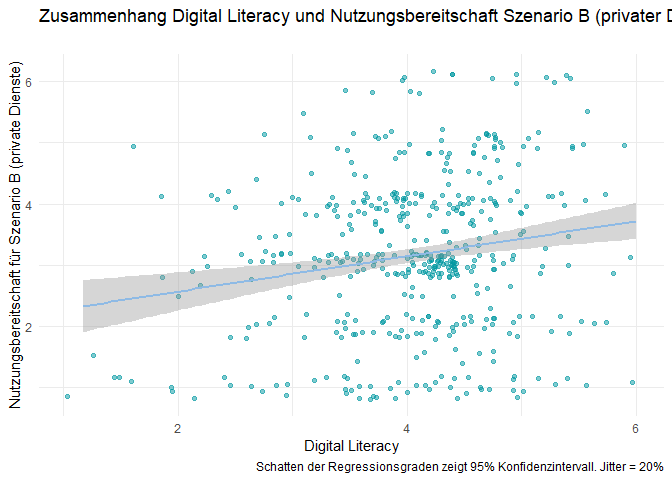
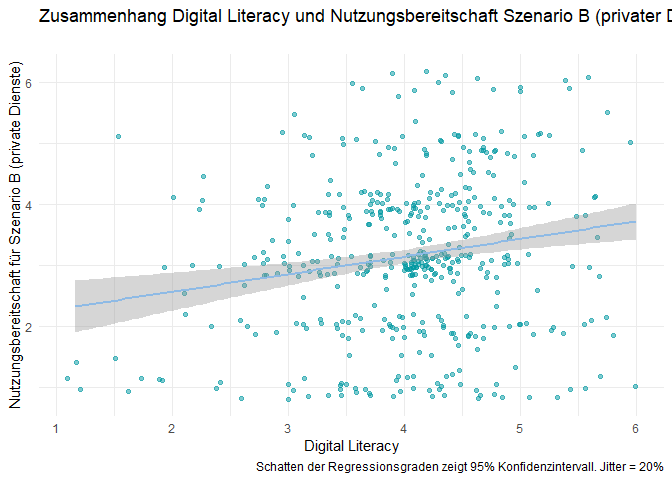
Anmerkungen eingearbeitet, Filter für NA hinzugefügt

diff --git a/readme.md b/readme.md
@@ -94,32 +94,6 @@ Substanz (mindestens 3 Items) - und damit ihre Funktionalität behalten.
     ## mean difference 
     ##       0.7270115
 
-    #Feedback JRH: Ich würde das hier und das Diagramm in einen gemeinsamen Chunk schreiben. Und definitiv echo = FALSE sonst wird der Code mit abgedruckt. 
-
-    df_WAP$Szenario %>% 
-      recode(`1` = "SzOeff", `2` = "SzPriv") %>% 
-      as.factor() -> df_WAP$Szenario
-
-    #Feedback JRH: Diagramm prinzipiell super, ich würde aber für den Vortrag Balken- und Punktdiagramm nicht abwechseln. 
-
-    df_WAP%>%
-      group_by(Szenario) %>% 
-      summarise(mean_Nutzungsbereitschaft = mean(Nutzungsbereitschaft), sem_Nutzungsbereitschaft = std.error(Nutzungsbereitschaft)) %>%
-      ggplot() +
-      aes(x = Szenario, y = mean_Nutzungsbereitschaft, weight = mean_Nutzungsbereitschaft, colour = Szenario, ymin = mean_Nutzungsbereitschaft - sem_Nutzungsbereitschaft, ymax = mean_Nutzungsbereitschaft + sem_Nutzungsbereitschaft) +
-      geom_errorbar(width = 0.2, colour = rwthcolor$black) +
-      geom_point(size = 5) +
-      scale_colour_manual(values=c(rwthcolor$lightblue, rwthcolor$red)) + 
-      ylim(3,4.1) +
-      theme_gray() +
-      labs(title = "Die Nutzungsbereitschaft für Szenario A ist höher als für das Szenario B", 
-           subtitle = "Unterschiede der Nutzungsbereitschaft für KI-Services, wenn die erhobenen Daten vom Öffentlichen Dienst oder der Privatwirtschaft genutzt werden", 
-           x = "Szenario",
-           y = "Nutzungsbereitschaft [1 - 6]",
-           fill = "Szenario",
-           caption = "Fehlerbalken zeigen Standardfehler des Mittelwertes") +
-      NULL
-
     ## Ignoring unknown labels:
     ## • fill : "Szenario"
 
